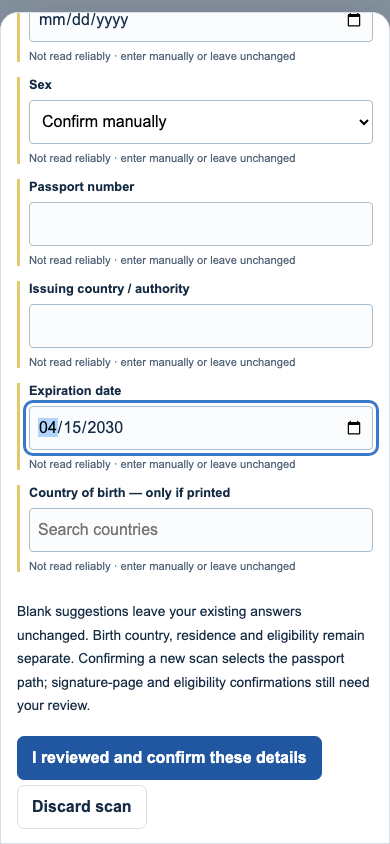
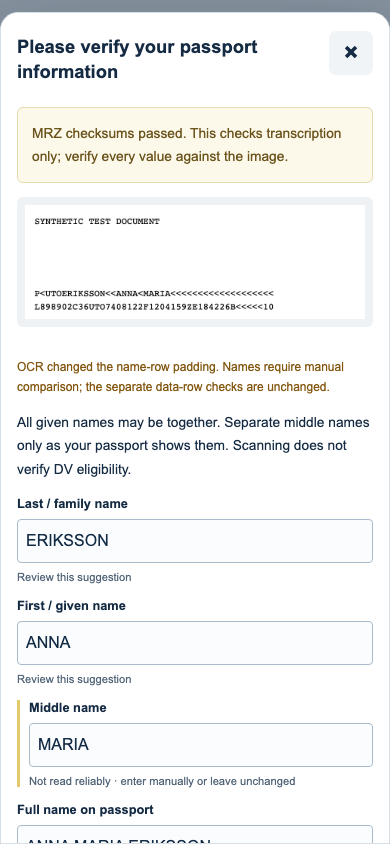
Handle OCR name-row padding without weakening data checks

diff --git a/docs/rebuild/ux-v21/verification.md b/docs/rebuild/ux-v21/verification.md
@@ -17,10 +17,10 @@ Prices, entitlement checks, Stripe/Supabase interfaces, database structures and 
 
 | Check | Evidence |
 | --- | --- |
-| `npm run check` | 26 schema/UX/household/privacy tests, 7 existing passport parser cases, syntax, 20 HTML pages, local references, SEO, platform privacy/capability guards and whitespace passed. |
+| `npm run check` | 27 schema/UX/household/privacy tests, 7 existing passport parser cases, syntax, 20 HTML pages, local references, SEO, platform privacy/capability guards and whitespace passed. |
 | `npm run test:browser` | Chromium, WebKit and Firefox: existing 320/390/430/1440px journeys plus new passport review, keyboard country search, date parts, compact toolbar, contextual help, viewport resizing and 320×568 / 200% text checks. |
 | Accessibility | axe WCAG 2.0/2.1 A/AA editor/review/public-page checks passed. Keyboard country selection, next-field focus and reduced-motion mode exercised. |
-| OCR/privacy | Actual self-hosted Tesseract reads a synthetic MRZ in all three engines. No insertion/attachment before confirmation; changes apply after review; deletion works. External requests are blocked except an empty health response; no applicant data or browser persistence. Invalid checksums, digit substitutions, unsupported MRZ and ambiguous centuries have unit coverage. |
+| OCR/privacy | Actual self-hosted Tesseract reads names, a checked date and a checked document number from a synthetic MRZ in all three engines. No insertion/attachment before confirmation; changes apply after review; deletion works. External requests are blocked except an empty health response; no applicant data or browser persistence. Invalid checksums, digit substitutions, name-row padding noise, unsupported MRZ and ambiguous centuries have unit coverage. |
 | `npm run test:backend` | Seven unit tests plus real local Supabase Auth/Postgres/Storage/API integration: cross-account isolation, paid-only writes, webhook signature and idempotency, refund ordering, revision conflict, malformed uploads, dormant asset ownership, PDF and deletion passed. |
 | `node tests/backend/browser.mjs` | Real local Mailpit OTP, authenticated purchased-preparation reopen, edit and autosave passed in a mobile Chromium viewport. Payment entitlement is a synthetic local fixture; no real charge. |
 | PDF | Server-generated single (5 pages) and family/long-answer (10 pages) PDFs rendered and visually inspected. Text bounds and continuous page numbering checked on every page. Regression test reads PDF content streams to verify long-answer start/end, applicant/spouse/child data, date/year, numbering and exclusion of inapplicable spouse data. |
@@ -38,7 +38,7 @@ Prices, entitlement checks, Stripe/Supabase interfaces, database structures and 
 ## Release checks still required
 
 - Physical iPhone Safari/Chrome and Android Chrome camera handoffs, keyboard/browser-chrome changes, pinch zoom and representative HEIC variants. Playwright WebKit is not a claim of physical Safari testing; visualViewport keyboard geometry in this suite is simulated.
-- Representative real-world passport layouts, glare, rotation and low-quality images. The checksum reader supports standard two-line, 44-character TD3 passports; other formats and ambiguous values require manual entry. Checksums detect transcription errors, not identity or eligibility.
+- Representative real-world passport layouts, glare, rotation and low-quality images. The checksum reader supports standard TD3 passports with a complete 44-character data row (minor name-row padding noise is flagged); other formats and ambiguous values require manual entry. Checksums detect transcription errors, not identity or eligibility.
 - Existing production provider activation: Gmail SMTP credentials and restricted Stripe checkout credentials still require completion/verification. Local authenticated-save and payment-state tests do not prove live email delivery or live checkout. This PR does not activate the production capability gates or re-enable Premium.
 - Final DV-2027 requirements and eligible-country list remain subject to official publication/review. The controlled country vocabulary is not an eligibility determination. No government entry is submitted by this workspace.
 
